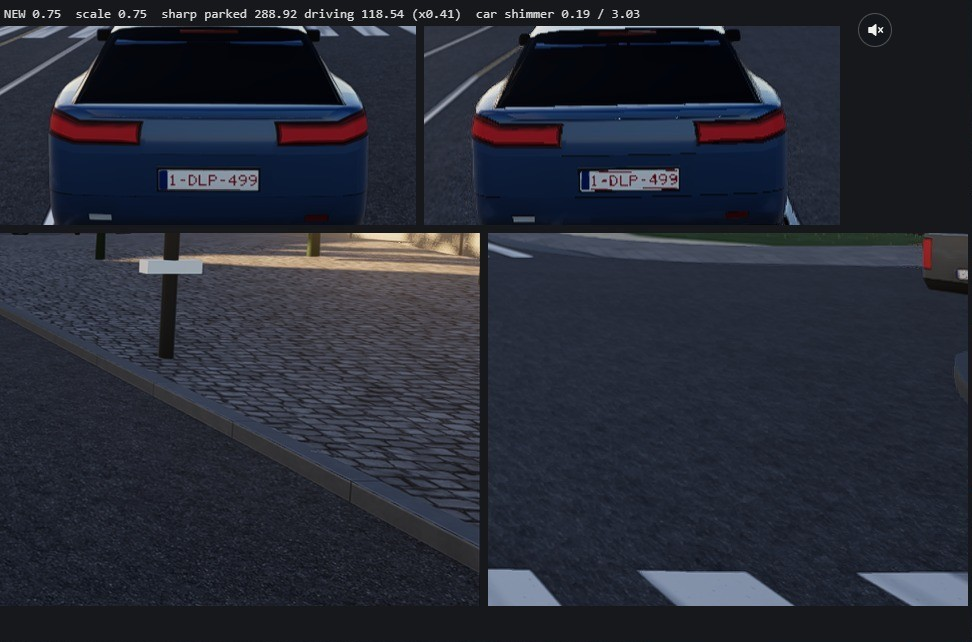
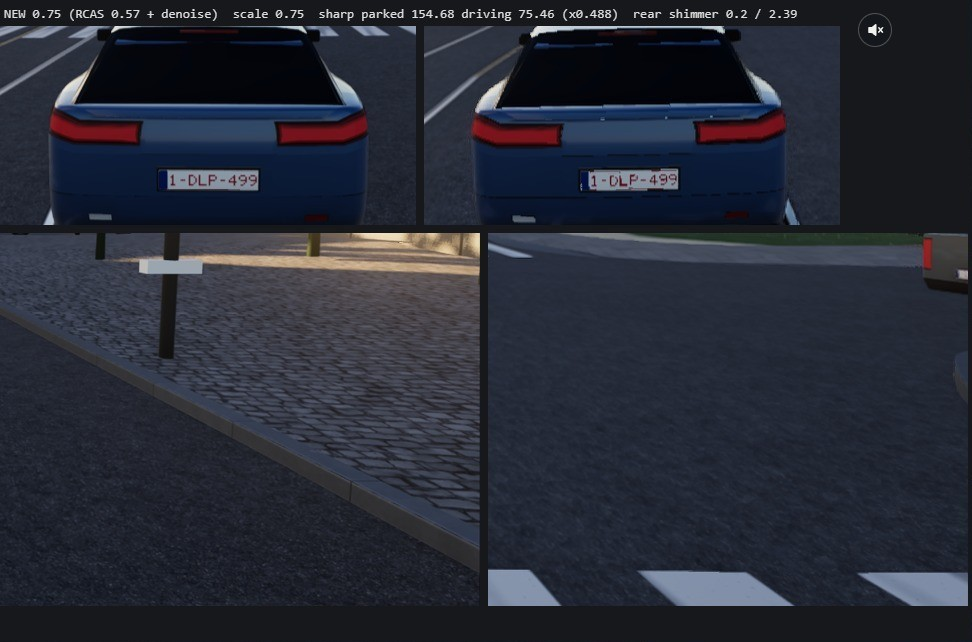
sharp: RCAS noise removal + gentler schedule (0.35 at 1.0 -> 0.7 at 0.6): parked frame-to-frame noise back to the old level; sharpCheck.stability()

diff --git a/viewer/upscale.js b/viewer/upscale.js
@@ -163,9 +163,10 @@ const TARGET_MS = +(qs.get("gputarget") ?? 14);       // the GPU budget the dyna
 const STEP = 0.025;                                      // scale grid (each change resizes the internal targets)
 
 const clamp = (x, a, b) => Math.min(b, Math.max(a, x));
-/** the sharpen's strength for a scale: RCAS lobe share 0.5 at 1.0 -> 1 (FSR's maximum) at 0.65 and under; the old
+/** the sharpen's strength for a scale: RCAS lobe share 0.35 at 1.0 -> 0.7 at 0.6 and under (+ its noise removal: the
+ *  first schedule, 0.5 -> 1, raised the parked frame-to-frame noise 40 %); the old
  *  unsharp mask 0.2 at 1.0 -> 0.4 at 0.6 */
-const sharpFor = (s) => SHARP_RCAS ? clamp(0.5 + (1 - s) / 0.35 * 0.5, 0.5, 1) : 0.2 + 0.5 * (1 - s);
+const sharpFor = (s) => SHARP_RCAS ? clamp(0.35 + (1 - s) / 0.4 * 0.35, 0.35, 0.7) : 0.2 + 0.5 * (1 - s);
 const quant = (s) => +(Math.round(s / STEP) * STEP).toFixed(3);
 function halton(i, b) { let f = 1, r = 0; while (i > 0) { f /= b; r += f * (i % b); i = Math.floor(i / b); } return r; }
 const JITTER = Array.from({ length: 16 }, (_, i) => [halton(i + 1, 2) - 0.5, halton(i + 1, 3) - 0.5]);
@@ -397,7 +398,13 @@ export function rcasTap(texNode, amount) {
   const hitMin = min(mn4, e).div(mx4.mul(4).add(1e-5));
   const hitMax = vec3(1).sub(max(mx4, e)).div(mn4.mul(4).sub(4).min(-1e-5));
   const lobeRGB = max(hitMin.negate(), hitMax);
-  const lobe = max(float(-0.1875), min(max(lobeRGB.r, max(lobeRGB.g, lobeRGB.b)), 0)).mul(amount);
+  // RCAS's noise removal (FSR 1 FSR_RCAS_DENOISE): less lobe where the centre stands out of its cross like a lone
+  // grain (a jitter / dither sparkle) rather than an edge: sharpening must not amplify the TAAU's residual noise
+  const L = (c) => c.g.mul(0.5).add(c.r.add(c.b).mul(0.25));
+  const bL = L(b), dL = L(d), fL = L(f), hL = L(h), eL = L(e);
+  const nzMax = max(max(max(bL, dL), max(fL, hL)), eL), nzMin = min(min(min(bL, dL), min(fL, hL)), eL);
+  const nz = bL.add(dL).add(fL).add(hL).mul(0.25).sub(eL).abs().div(nzMax.sub(nzMin).max(1e-4)).saturate().mul(-0.5).add(1);
+  const lobe = max(float(-0.1875), min(max(lobeRGB.r, max(lobeRGB.g, lobeRGB.b)), 0)).mul(amount).mul(nz);
   const o = b.add(d).add(f).add(h).mul(lobe).add(e).div(lobe.mul(4).add(1)).toVar();
   return o.div(float(1).sub(max(o.r, max(o.g, o.b))).max(1e-3)).max(vec3(0));
 }

diff --git a/debug/sharpCheck.js b/debug/sharpCheck.js
@@ -144,3 +144,32 @@ export function show(url) {
   document.body.appendChild(im);
 }
 export function hide() { document.getElementById("__sharpSheet")?.remove(); }
+
+/**
+ * Temporal stability while PARKED (nothing moves but the jitter, the wind, the dither phases): per screen box (x, y, w,
+ * h as fractions) the median over `frames` of the mean |high-pass(Y_t) - high-pass(Y_t-1)| (sparkle, shimmer) and
+ * of |Y_t - Y_t-1| (flicker). boxes: { name: [x, y, w, h] }.
+ */
+export async function stability({ frames = 40, warm = 30, boxes = { foliage: [0.27, 0.22, 0.2, 0.2], facade: [0.62, 0.15, 0.3, 0.3], road: [0.3, 0.75, 0.4, 0.2] } } = {}) {
+  const v = V(), d = window.__driver, canvas = v.renderer.domElement, W = canvas.width, H = canvas.height;
+  const g = new OffscreenCanvas(W, H).getContext("2d", { willReadFrequently: true });
+  v.pause(true);
+  const prev = {}, hp = {}, fl = {};
+  try {
+    for (let f = 0; f < warm + frames; f++) {
+      if (d?.on) d.autoInput = { throttle: 0, steer: 0, handbrake: true };
+      v.step(1 / 60);
+      if (f < warm) { if (f % 4 === 0) await sleep(0); continue; }
+      g.drawImage(canvas, 0, 0);
+      for (const [k, [x, y, w, h]] of Object.entries(boxes)) {
+        const X = Math.round(x * W), Y = Math.round(y * H), BW = Math.round(w * W), BH = Math.round(h * H);
+        const Yl = luma(g.getImageData(X, Y, BW, BH)), Hp = highPass(Yl, BW, BH);
+        if (prev[k]) { (hp[k] ||= []).push(tdiff(Hp, prev[k].hp)); (fl[k] ||= []).push(tdiff(Yl, prev[k].y)); }
+        prev[k] = { hp: Hp, y: Yl };
+      }
+      if (f % 4 === 0) await sleep(0);
+    }
+  } finally { if (d) d.autoInput = null; v.pause(false); }
+  const med = (a) => +[...a].sort((x, y) => x - y)[Math.floor(a.length / 2)].toFixed(3);
+  return Object.fromEntries(Object.keys(boxes).map((k) => [k, { sparkle: med(hp[k]), flicker: med(fl[k]) }]));
+}
